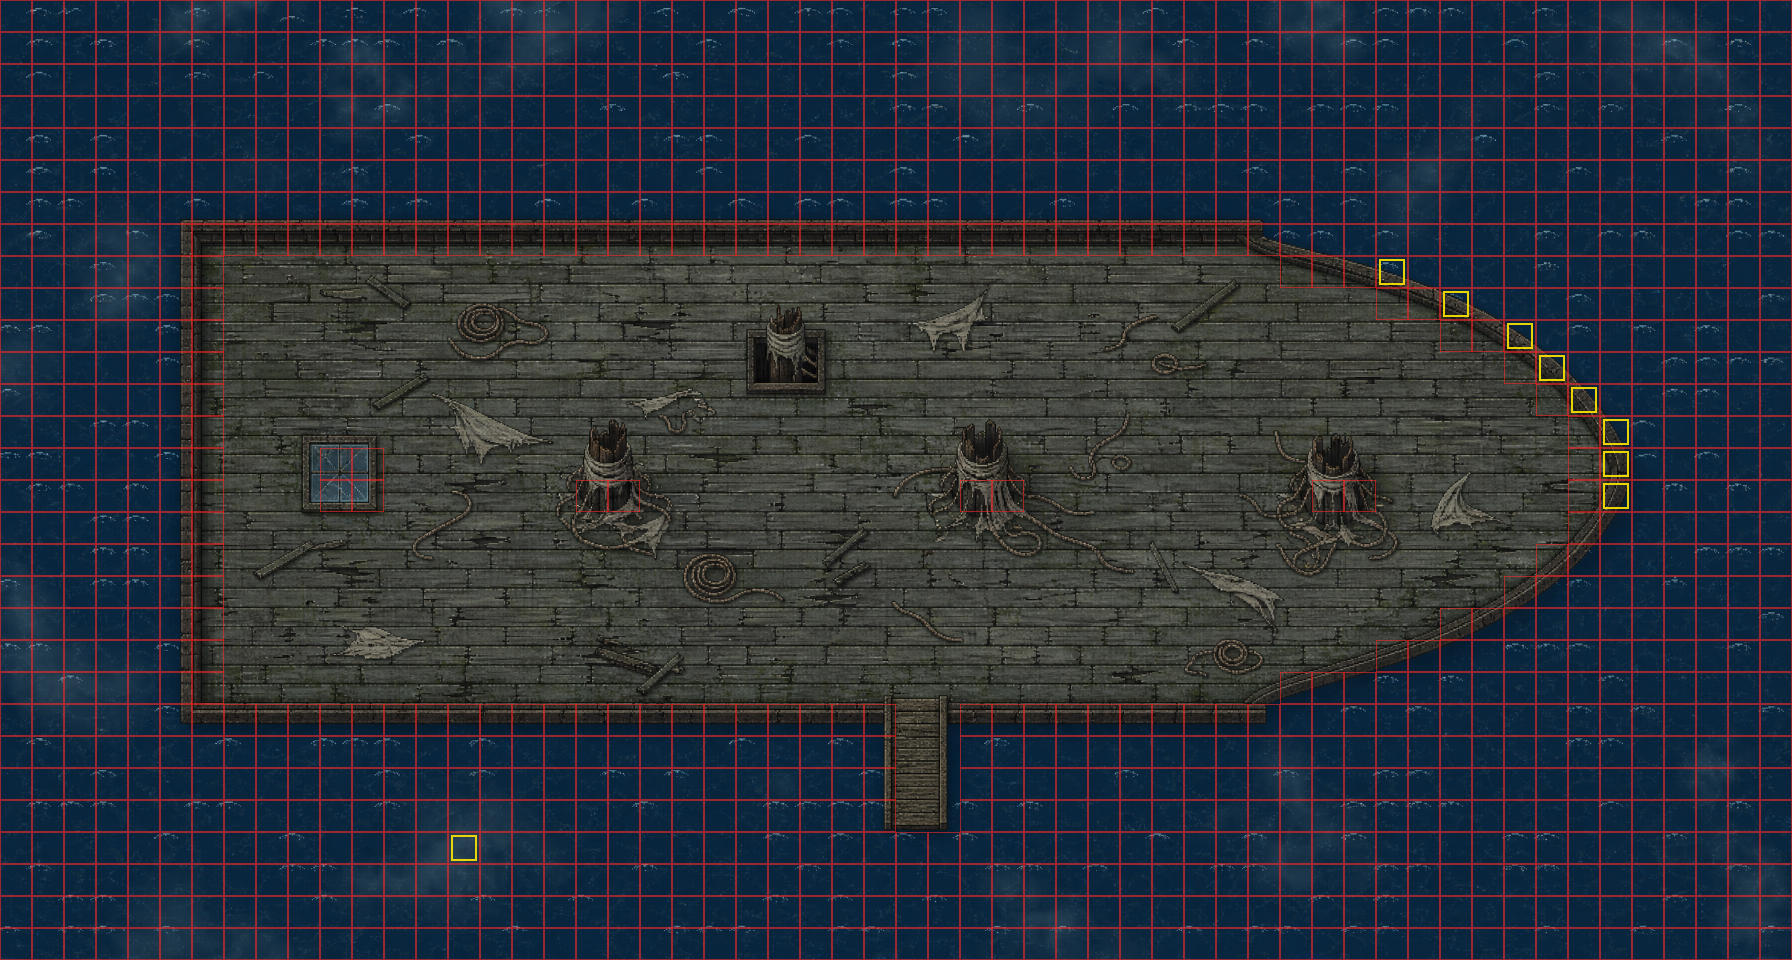
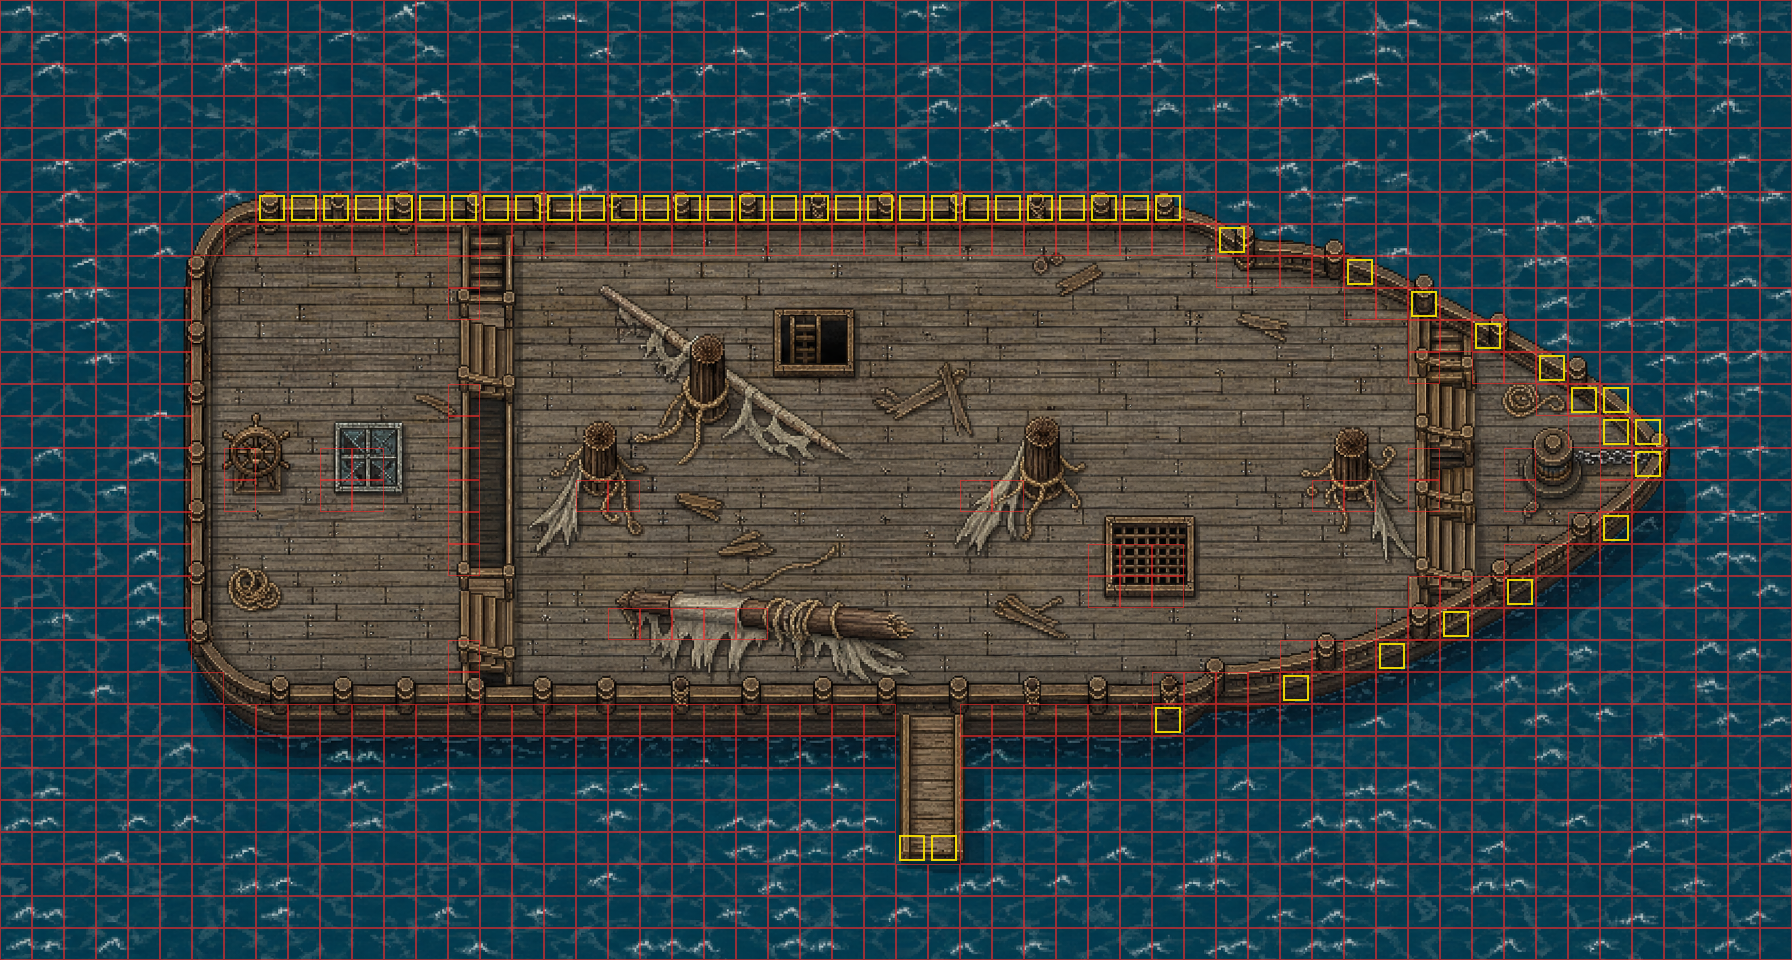
WIP checkpoint: mine authoring, isles and marsh polish
Claude-Session: https://claude.ai/code/session_0177zLTT6UFzP7vKu3AgJSLT

diff --git a/chronicle/v2/src/maps/mine_00_kit.js b/chronicle/v2/src/maps/mine_00_kit.js
@@ -1,0 +1,80 @@
+// CONTENT（ガルド山地・鉱山都市ドヴァン）: 地下の町・深き坑道・屋内の共通の小道具（凡例・光・描いた物の登録・下絵の当たりから組み立てる）。
+//   R.Mine.kit.TOWN(extra)   洞窟の町の凡例（字は design/.../field_mine/lib.py と同じ。'k' 土の床・'c' 石畳・'X' 家と櫓（描いた物）・'R' 岩壁・'l' 裂け目）
+//   R.Mine.kit.CAVE(extra)   深き坑道の凡例（'k' 坑道の床・'=' 板の渡り・'w' 地下の水・'R' 岩の壁・'r' 岩と鉱石の山・'l' 縦穴・'X' 描いた物）
+//   R.Mine.kit.ROOM(wall, floor) 屋内（R.ContentF.kit.ROOM_LEGEND）
+//   R.Mine.kit.painted(id)   下絵に合わせた当たり（maps/mine_painted_rows.js の R.Mine.PAINTED[id]）→ {rows, art, blds}
+//   R.Mine.kit.blds(id, dest) 描いた建物の敷地と戸口 → 建物の物（dest[建物の id] = {map, spawn?, sign?}。無い物は入れない家として当たりだけ）
+//   R.Mine.kit.LIGHT_*       光（町・屋内・坑道・七の層）
+//   鉱山の灯（持ち主 2026-09-29「地方に合う小道具」）: 町と坑道の灯りは坑夫のカンテラ（hook_lamp = 鉤に吊るした鉄のカンテラ、
+//   道しるべの灯 waylamp は propSet 'mine' の木の柱のカンテラ）。石の灯籠や街灯（lamp_post）は置かない。
+// 鉱山の描いた物（v2/assets/env/mine/props）の id は、起動のとき env.js が登録する。node の検査でも当たりと灯りがそろうよう、無いときだけここで置く。
+(function (R) {
+  'use strict';
+  const I = (R.Mine = R.Mine || {});
+  const K = (I.kit = I.kit || {});
+  const PROPS = {
+    hook_lamp: { solid: true, glow: true, light: { kind: 'fire', r: 110 }, shadow: 'blob' },
+    mine_cart: { solid: true, shadow: 'blob' }, mine_cart_ore: { solid: true, shadow: 'blob' }, anvil: { solid: true, shadow: 'blob' },
+    bellows: { solid: true, shadow: 'blob' }, forge: { solid: true, glow: true, light: { kind: 'fire', r: 150 }, shadow: 'blob' },
+    coal_barrel: { solid: true, shadow: 'blob' }, tool_crate: { solid: true, shadow: 'blob' }, tool_rack: { solid: true, shadow: 'blob' },
+    ore_blue: { solid: true, glow: true, light: { kind: 'lamp', r: 70 } }, ore_copper: { solid: true }, timber_frame: { solid: true },
+    lift_cage: { solid: true }, oath_stone: { solid: true },
+    // 光だけの物（絵を持たない）: 鍛冶神の炉の赤い光（鍛冶場の奥・町の灯り直す場面）と、七の層の破れ目の白い光
+    forge_glow: { soft: true, glow: true, light: { kind: 'fire', r: 200 } },
+    white_glow: { soft: true, glow: true, light: { kind: 'lamp', r: 150 } },
+  };
+  for (const id of Object.keys(PROPS)) if (!R.DB.props[id]) R.def('props', id, PROPS[id]);
+
+  const BASE = {
+    ',': { mat: 'grass' }, ';': { mat: 'tall_grass' }, '"': { mat: 'flowers' }, '.': { mat: 'road' }, ':': { mat: 'dirt' },
+    s: { mat: 'dirt' }, _: { mat: 'shallow' }, '=': { mat: 'scaffold' }, c: { mat: 'cobble' }, u: { mat: 'mine_floor' }, k: { mat: 'mine_floor' },
+    '~': { mat: 'deep_water', walk: false }, w: { mat: 'water', walk: false, name: 'cave_water' },
+    T: { mat: 'tree', solid: true }, F: { mat: 'forest_dark', solid: true }, b: { mat: 'bush', solid: true }, r: { mat: 'rock', solid: true },
+    l: { mat: 'rock', solid: true, name: 'chasm' },
+  };
+  K.TOWN = function (extra) {
+    return Object.assign({}, BASE, {
+      R: { mat: 'wall_cave', solid: true, rise: 2 },
+      X: { mat: 'wall_wood', solid: true, name: 'painted' },
+    }, extra || {});
+  };
+  K.CAVE = function (extra) {
+    return Object.assign({}, BASE, {
+      R: { mat: 'wall_cave', solid: true, rise: 2 },
+      X: { mat: 'wall_cave', solid: true, name: 'painted' },
+    }, extra || {});
+  };
+  K.ROOM = function (wall, floor) { return R.ContentF.kit.ROOM_LEGEND(wall || 'wall_stone', floor || 'wood_floor'); };
+  K.LIGHT_TOWN = { ambient: '#5a5a8e', k: 0.5, poolK: 1.5, spillR: 1.5, mood: 'town_night' };
+  K.LIGHT_TOWN_LIT = { ambient: '#8a7a78', k: 0.36, poolK: 1.6, spillR: 1.6, mood: 'town_night' };   // 炉に火が戻ったあと（町の灯りがいっせいに明るく）
+  K.LIGHT_ROOM = { ambient: '#8a8298', k: 0.8, mood: 'interior' };
+  K.LIGHT_CAVE = { ambient: '#4a4a70', k: 0.6, poolK: 1.2, spillR: 1.2, mood: 'cave' };
+  K.LIGHT_DEEP = { ambient: '#34364e', k: 0.66, mood: 'dark' };
+
+  /** 下絵に合わせた当たり（mine_painted_rows.js）。無ければ岩だけの小さな四角（node の読み込みの順が崩れても落ちない） */
+  K.painted = function (id) {
+    const p = I.PAINTED && I.PAINTED[id];
+    if (p) return { rows: p.rows.slice(), art: Object.assign({}, p.art), blds: (p.blds || []).map((b) => Object.assign({}, b)) };
+    R.warn && R.warn('Mine.kit.painted: no painted rows for ' + id);
+    return { rows: ['RRR', 'RkR', 'RRR'], art: null, blds: [] };
+  };
+  /** 描いた建物 → 建物の物（当たりは下絵の 'X'。戸口は 1 マス、出て着くのはその真下）。dest に無い建物は入れない家 */
+  K.blds = function (id, dest) {
+    const out = [];
+    for (const b of K.painted(id).blds) {
+      const o = { type: 'building', id: b.id, x: b.x, y: b.y, w: b.w, h: b.h, wall: 2, roof: 'flat', mat: 'plaster', windows: 2, lamp: false };
+      const d = dest[b.id];
+      if (d) {
+        o.door = { x: b.door[0], y: b.door[1], to: { map: d.map, spawn: d.spawn || 'door' } };
+        if (d.sign) o.sign = d.sign;
+      }
+      out.push(o);
+    }
+    return out;
+  };
+  /** 建物の戸口の前（door.y + 1）の spawn */
+  K.doorSpawn = function (id, bid, dir) {
+    const b = K.painted(id).blds.find((q) => q.id === bid);
+    return b ? { x: b.door[0], y: b.door[1] + 1, dir: dir || 's' } : { x: 1, y: 1, dir: 's' };
+  };
+})(window.RPG);

diff --git a/chronicle/design/art_ref/gen/env/_tools/under/field_isles/gs1_fit.py b/chronicle/design/art_ref/gen/env/_tools/under/field_isles/gs1_fit.py
@@ -1,0 +1,54 @@
+"""幽霊船 甲板（ghost_ship_1、描き直し gen3）の当たりを絵から測った形で作る（fit.py の色の分類は甲板の板と船べりを分けられない）。
+甲板の内側の縁（船べりの手すりの内側）を多角形にして、マスの中心が内なら歩ける 'u'。船尾楼・船首楼の手すりと階段、折れた帆柱・
+舵輪・天窓・巻き上げ機・格子の昇降口・倒れた帆桁は、gen3.png に格子を重ねて読んだ位置（w_isles2 の作業、2026-09-30）。
+usage: python3 gs1_fit.py -> ghost_ship_1/layout.json の rows_fit"""
+import json
+d = json.load(open('ghost_ship_1/layout.json')); W, H = d['w'], d['h']
+top = [(5.0, 7.0), (37.0, 7.0), (40.0, 8.3), (44.0, 9.7), (48.0, 11.6), (51.4, 13.9)]
+bot = [(5.0, 21.0), (36.0, 21.0), (40.0, 20.1), (44.0, 19.2), (48.0, 16.8), (51.4, 14.3)]
+
+
+def edge(pts, x):
+    for (x0, y0), (x1, y1) in zip(pts, pts[1:]):
+        if x0 <= x <= x1: return y0 + (y1 - y0) * (x - x0) / (x1 - x0)
+    return None
+
+
+g = [['~'] * W for _ in range(H)]
+for y in range(H):
+    for x in range(W):
+        cx, cy = x + 0.5, y + 0.5
+        if cx < 6.3: continue
+        t, b = edge(top, cx), edge(bot, cx)
+        if t is None or b is None: continue
+        if t < cy < b: g[y][x] = 'u'
+for (x, y) in [(6, 7), (6, 20)]: g[y][x] = 'X'          # 船尾の丸い角
+for x in range(5, 52):                                     # 下の船べり（手すり、渡り板の口は開ける）
+    if g[20][x] == 'u' and g[21][x] == '~': g[21][x] = 'X'
+for x in range(6, 38): g[21][x] = 'X'
+solid = []
+solid += [(x, y) for x in (14, 15) for y in range(9, 19)]          # 船尾楼の手すり（階段は y 7・8 と 19・20）
+solid += [(x, y) for x in (44, 45) for y in range(13, 18)]         # 船首楼の手すり（階段は y 10〜12 と 18・19）
+solid += [(7, 14), (8, 14), (10, 14), (11, 14)]                    # 舵輪・天窓
+solid += [(18, 14), (18, 15), (19, 15), (22, 12), (22, 13), (32, 13), (32, 14), (33, 14), (42, 13), (42, 14)]   # 折れた帆柱 4
+solid += [(24, 10), (25, 10), (26, 10), (25, 11), (26, 11)]        # 下へのはしごの口（24,11 は階段の物）
+solid += [(x, y) for x in range(34, 38) for y in (16, 17)]         # 格子の昇降口
+solid += [(x, 19) for x in range(20, 28)]                          # 倒れた帆桁
+solid += [(48, 14)]                                                # 巻き上げ機
+for (x, y) in solid: g[y][x] = 'X' if g[y][x] != '~' else '~'
+for (x, y) in [(28, y) for y in range(21, 26)] + [(29, y) for y in range(21, 26)]: g[y][x] = '='   # 渡り板
+g[21][28] = g[21][29] = 'u'
+for (x, y) in [(24, 11), (24, 12), (8, 9), (46, 15), (28, 20), (10, 13)]: assert g[y][x] in 'u=', (x, y, g[y][x])
+d['rows_fit'] = [''.join(r) for r in g]
+json.dump(d, open('ghost_ship_1/layout.json', 'w'), ensure_ascii=False, indent=0)
+# 届くか
+from collections import deque
+seen = {(28, 25)}; q = deque([(28, 25)])
+while q:
+    x, y = q.popleft()
+    for dx, dy in ((1, 0), (-1, 0), (0, 1), (0, -1)):
+        i, j = x + dx, y + dy
+        if 0 <= i < W and 0 <= j < H and (i, j) not in seen and g[j][i] in 'u=': seen.add((i, j)); q.append((i, j))
+walk = [(x, y) for y in range(H) for x in range(W) if g[y][x] in 'u=']
+print('walk', len(walk), 'unreached', [p for p in walk if p not in seen])
+print('\n'.join('%2d %s' % (y, r) for y, r in enumerate(d['rows_fit'][4:24], 4)))
